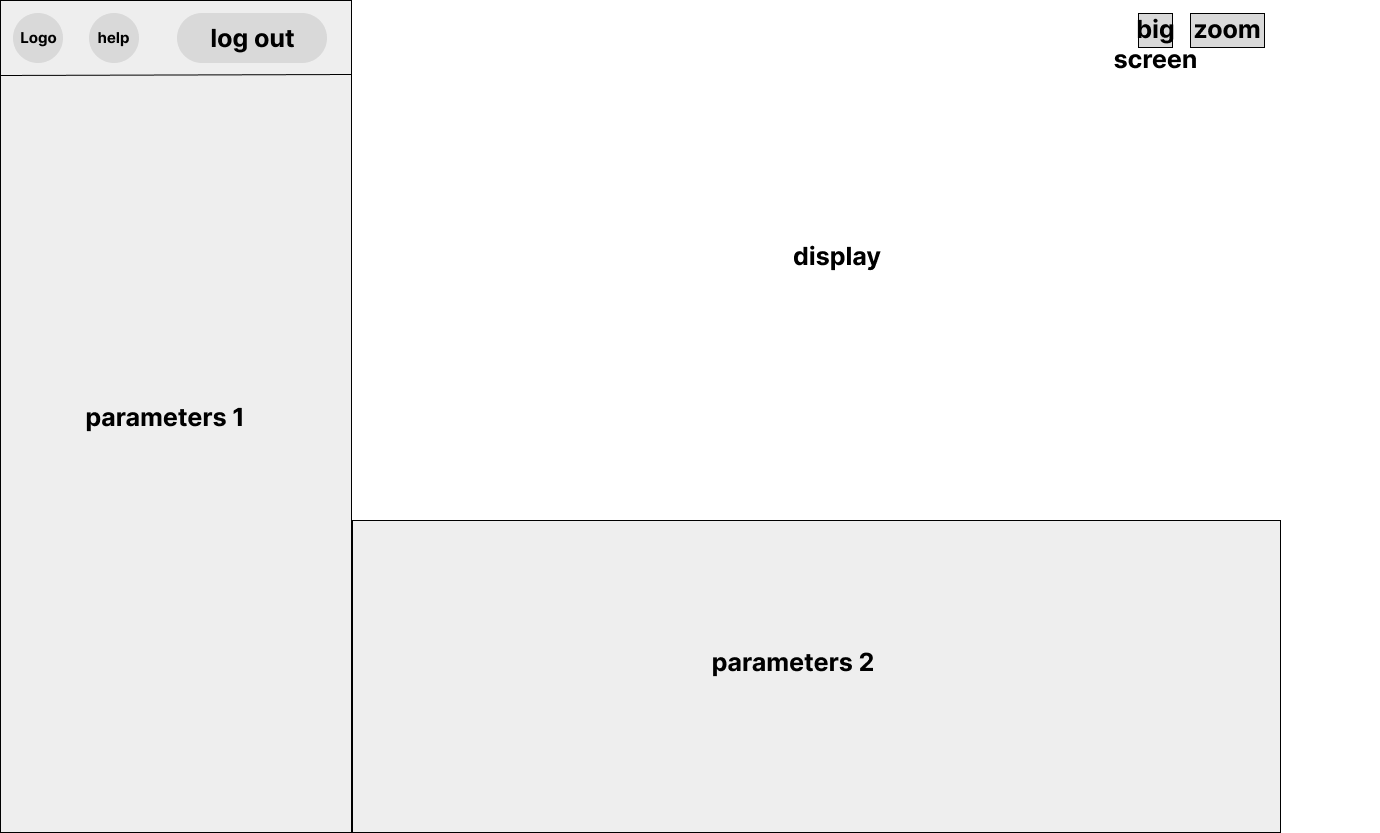
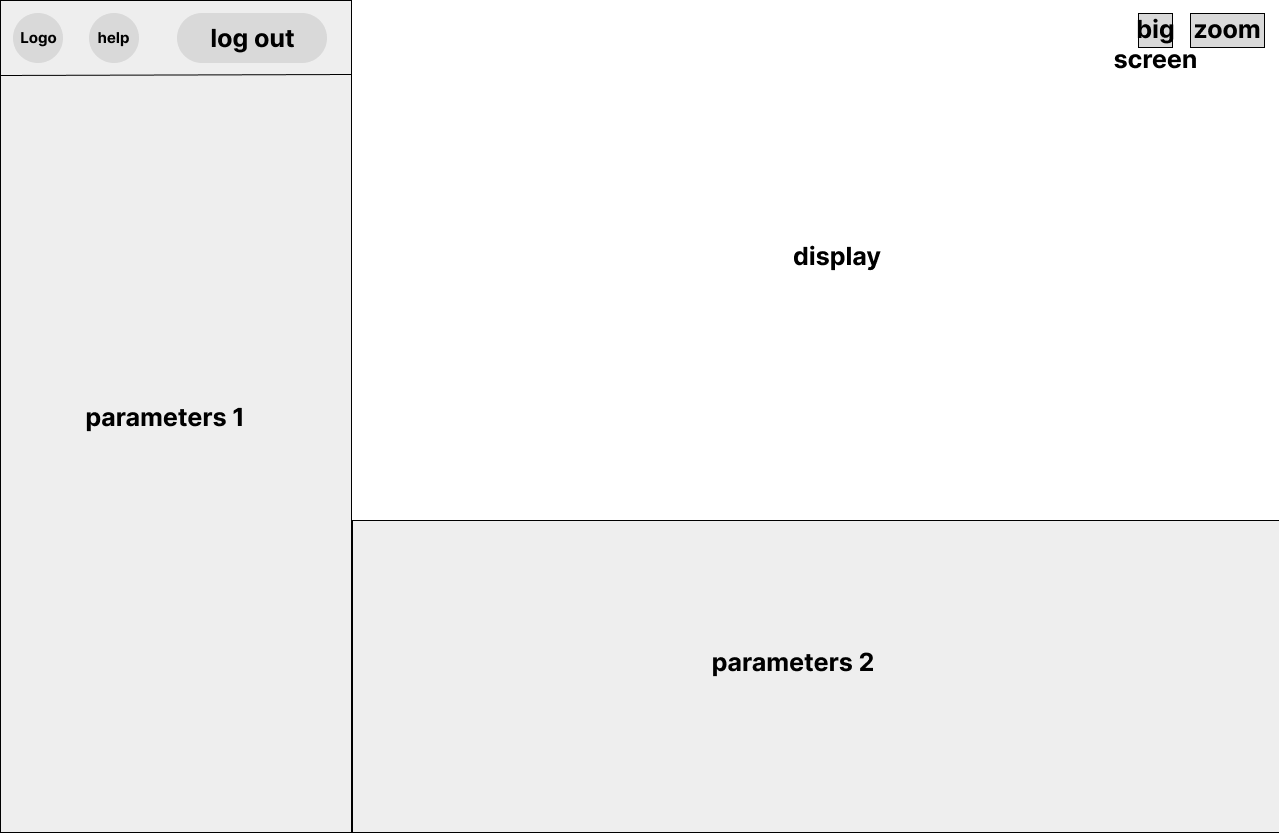
Need a backup
- Rephrased some part of the document
- Added some definition in the glossary
- Added few use cases analysis
- Added a border to the web interface model to distinguish it

diff --git a/functionalSpecifications/functionalSpecifications.md b/functionalSpecifications/functionalSpecifications.md
@@ -20,7 +20,7 @@
 | Date       | Version | Document Revision Description                                                                                                                                                                    |
 | ---------- | :-----: | ------------------------------------------------------------------------------------------------------------------------------------------------------------------------------------------------ |
 | 02/24/2025 |   1.0   | <li> Created the document and wrote sections Overview, A to E. </li> <li> Started the Glossary. </li>                                                                                            |
-| 02/25/2025 |   1.1   | After meeting with the client, some parts have been updated. <li>Filled in the client's section</li> <li>Partially wrote the Functional Requirements.</li> <li>Added Expected Deliverables.</li> |
+| 02/25/2025 |   1.1   | After meeting with the client, some parts have been updated. <li>Filled customers-relative sections</li> <li>Partially wrote Functional Requirements.</li> <li>Added Expected Deliverables.</li> |
 | 02/27/2025 |   1.2   | Made a lot of corrections and rewriting to have a clear document.                                                                                                                                |
 | 02/28/2025 |   1.3   | <li>Added the Test Cases Analysis</li> <li>Added Personas</li>                                                                                                                                   |
 
@@ -70,44 +70,44 @@
 
 # I. Overview
 
-Our client, Florant MANNI has asked us to develop a web interface for an FPGA Simulator[^1]. This web interface will be used to teach people how the signals propagate inside an FPGA[^2]. For simplicity, we will use the schematic of an FPGA board and animate it to show the movement of data and clock within the board.
+Our client, Florant MANNI has solicited us to develop a web interface for an FPGA Simulator[^1]. This web interface will be used to teach people how the signals spread inside an FPGA[^2]. For simplicity, we will represente the board with differents views (define in the document) to understand the FPGA system through animations. Those animations mainly symbolize signals transfers. 
 
 ## A. Purpose of the document
 
-The purpose of this Functional Specification is to outline the requirements and design considerations for developing a web interface for an FPGA Simulator[^1]. This interface aims to provide an educational tool that visually demonstrates how signals propagate within an FPGA, enhancing users' understanding of FPGA behavior.
+The purpose of this document is to outline the requirements and design considerations for developing a web interface for an FPGA Simulator[^1]. This interface aims to provide an educational tool that visually demonstrates how signals spread within an FPGA system, enhancing users' understanding of FPGA behavior.
 
-The document will detail the functionalities needed to merge a 2D floorplan representation of an FPGA with the dynamic propagation of signals over time. This includes integrating the layout resulting from synthesis and place-and-route (P&R) processes with timing simulation data. The goal is to create an interactive and intuitive platform that allows users to observe and analyze signal propagation using a testbench[^3] and timing netlist[^4], both written in Verilog.
+The document will detail the functionalities needed to merge a 2D floorplan representation of an FPGA with the dynamic propagation of signals over time. This includes integrating the layout resulting from synthesis[^3] and place-and-route (P&R)[^4] processes with timing simulation data. The goal is to create an interactive and intuitive platform that allows users to observe and analyze signal propagation using a testbench[^5] and timing netlist[^6], both written in Verilog[^7].
 
 By defining the scope, features, and user interactions, this specification will serve as a comprehensive guide for the development team to ensure the final product meets the educational objectives and technical requirements.
 
 ## B. Project Scope 
 
-The project scope for developing the web interface[^5] for the FPGA Simulator includes the following key components and functionalities:
+The project scope for developing the web interface[^8] for the FPGA Simulator includes the following key components and functionalities:
 
 1. 2D floorplan Visualization:
 
-   * Develop a graphical representation of the **FPGA layout**, displaying the arrangement of basic elements (BELs) and their interconnections.
+   * Develop a graphical representation of the **FPGA layout**, displaying the arrangement of basic elements (BELs)[^9] and their interconnections.
    * Ensure the layout accurately **reflects** the post-synthesis and place-and-route (P&R) design.
 
 <br>
 
 2. Signal Propagation Simulation:
    
-   * Integrate a timing simulator to **visualize** the propagation of clock signals within the FPGA with an animation.
+   * Integrate a timing simulator to **visualize** the propagation of clock signals within the FPGA through an animation.
    * Use a testbench and timing netlist, both written in Verilog, to drive the simulation and **demonstrate signal** behavior over time.
 
 <br>
 
 3. Double Interface:
 
-   * A web interface used by students to interact with the webpage to **explore** and **understand** the system.
-   * A backend interface used by teachers to provide scripts to the program to train students with the web interface.
+   * A web interface used by students to interact with the web app[^10] to **explore** and **understand** the system.
+   * A backend interface[^11] used by teachers to provide scripts to the program to train students with the web interface.
 
 <br>  
 
 4. Interactive User Interface:
 
-   * Create an **intuitive** web interface that allows users to interact with the FPGA layout and observe signal propagation.
+   * Create an **intuitive** web interface that allows users to interact with the with the view and observe signal propagation. //
    * Include controls for **starting**, **pausing**, and **resetting** the simulation, as well as options to inspect signal states at specific points in time.
 
 <br>
@@ -122,7 +122,7 @@ The project scope for developing the web interface[^5] for the FPGA Simulator in
 6. Technical Requirements:
 
     * Ensure the web interface is **compatible** with modern **web browsers** and responsive to different screen sizes.
-    * Optimize performance to handle complex FPGA designs and real-time signal propagation simulations.
+    * Optimize performance to handle complex FPGA designs.
     * **If share on the web**, implement security measures to protect user data and ensure the integrity of the simulation environment.
 
 <br>
@@ -130,7 +130,6 @@ The project scope for developing the web interface[^5] for the FPGA Simulator in
 7. Testing and Validation:
 
    * Conduct thorough testing to validate the accuracy of the signal propagation simulation and the usability of the interface.
-   * Gather feedback from users to iteratively improve the educational value and user experience of the tool.
 
 <br>
 
@@ -170,8 +169,8 @@ By focusing on these components, the project aims to deliver a comprehensive and
 
 | Stakeholder      | Might have/find an interest in...                                                 |
 | ---------------- | --------------------------------------------------------------------------------- |
-| Florant MANNI    | Needs a tool to help explain Verilog/VHDL system to young FPGA users.             |
-| ALGOSUP Students | Learning the association between web languages (HTML/CSS/JavaScript) and Verilog. |
+| Florant MANNI    | Needs a tool to help him to explain Verilog/VHDL system to young FPGA users.      |
+| ALGOSUP Students | Learning the association between web languages (HTML/CSS/JavaScript)[^12] and Verilog. |
 
 ### Project Roles
 
@@ -193,8 +192,8 @@ For this project, the customer has requested us to meet the following deliverabl
 * An explainaton of how to run the software must be present on the repository and/or in the website.
 * An explaination of how to add an application example must be present on the repository and/or in the website.
 * The website must include at least two application examples:
-  * One for the flipflop.
-  * One for the LUT4. 
+  * One for the flipflop[^13].
+  * One for the LUT4[^14]. 
 
 ## E. Project Plan 
 
@@ -258,13 +257,13 @@ To provide a comprehensive amount of information, the student needs access to th
 
 In this three views, the user has the following features :
 
-| 2D View & Navigation                                                                                                                              | Time Control                                                                                                                                                                                                                                             | Example used & Visualization                                                                                                                                                                   |
-| ------------------------------------------------------------------------------------------------------------------------------------------------- | -------------------------------------------------------------------------------------------------------------------------------------------------------------------------------------------------------------------------------------------------------- | ---------------------------------------------------------------------------------------------------------------------------------------------------------------------------------------------- |
-| <li>Navigate trough the screen with delimitation. </li> <li>Zoom on the screen to see more details or zoom out to view the global schematic.</li> | <li>Pause and resume button to stop or continue the animation.</li> <li>Controller/button to select the speed of the animation with the following choices: <br> <div style='text-align: center;'> x0.25 / x0.5 / x0.75 / x1 / x1.5 / x2 / x4 </div></li> | <li>Choose the exercise between the default example and the example from the file provided by the teacher </li> <li>Select which view to display information from among the three views. </li> |
+| 2D View & Navigation                                                                                                                              | Time Control                                                                                                                                                                                                                                                 | Example used & Visualization                                                                                                                                                                   |
+| ------------------------------------------------------------------------------------------------------------------------------------------------- | ------------------------------------------------------------------------------------------------------------------------------------------------------------------------------------------------------------------------------------------------------------ | ---------------------------------------------------------------------------------------------------------------------------------------------------------------------------------------------- |
+| <li>Navigate trough the screen with delimitation. </li> <li>Zoom on the screen to see more details or zoom out to view the global schematic.</li> | <li>Pause and resume button to stop or continue the animation.</li> <li>Controller/button to select the speed of the animation with the following choices: <br> <div style='text-align: center;'> 0.25 / 0.5 / 0.75 / 1 / 1.25 / 1.5 / 1.75 / 2. </div></li> | <li>Choose the exercise between the default example and the example from the file provided by the teacher </li> <li>Select which view to display information from among the three views. </li> |
 
 To organize the screen, we'll follow the model below. 
 
-![webAppDisplay](pictures/webAppDisplay.png)
+<img src='pictures/webAppDisplay.png' style='border: 1px solid black'>
 
 For the next three views, they will displayed on the display part.
 
@@ -351,7 +350,7 @@ When we start the Web app, firstly the program check if you are connected. If ye
 
 <h4>Log out</h4>
 
-Above the sidebar located in parameter 1 of the model, we have a `log out` button. If we press it, we should be disconnected and a login page should be displayed.
+Above the sidebar located in parameter 1 of the model, we have a `log out button`. If we press it, we should be disconnected and a login page should be displayed.
 
 ![log out](pictures/logOut.png)
 
@@ -369,18 +368,42 @@ The sidebar should have a button `Switch View`. With it, the user should select 
 
 <h4>Animation</h4>
 
-The project's goal is to have an animation to illustrate program action. So, with a play button, we should be allowed to pause and resume animation.
+The project's goal is to have an animation to illustrate program action. So, with a `play button`, we should be allowed to pause and resume animation.
 
 ![animation](pictures/Animation.png)
+
+<h4>Animation Speed</h4>
+
+Near to the play button, we should have a `drop-down list`. With it, the animation speed up or slow down. We should be allowed to select the speed between this speed values : 0.25, 0.5, 0.75, 1, 1.25, 1.5, 1.75, 2. The **default value** is x1.
+
+![Speed Animation](pictures/speedAnimation.png)
 
 # Glossary
 
 [^1]: An FPGA Simulator is a tool that helps designers test digital circuits before they are built. It uses special languages like Verilog or VHDL to simulate how signals move through an FPGA, ensuring everything works correctly.
 
-[^2]: An FPGA (Field-Programmable Gate Array) is a customizable chip that can be programmed to do different tasks. Unlike regular chips that do one thing, an FPGA can change its function, making it versatile for various jobs.
+[^2]: An FPGA (Field-Programmable Gate Array)  is an integrated circuit with basic elements and preconfigured electrical signal routes between them.
 
-[^3]: A testbench is a crucial tool in the design and verification process, helping to ensure that digital circuits and systems function correctly before they are manufactured.
+[^3]: Translation of the application into an electrical equivalent. It creates a netlist (which can be exported as a netlist). 
 
-[^4]: A netlist is like a recipe for building an electronic circuit. It tells you what components you need and how to put them together (connections) to create a functioning circuit.
+[^4]: Place and Route is the packing of the netlist component in the FPGA available BEL (Place). Then a route for signals between each BEL is selected (Route). A timing netlist is created and can be exported in verilog.
 
-[^5]: A web interface is a user-friendly website or online tool that lets you interact with a system or application through your web browser. It's like a control panel on the internet where you can click buttons, enter information, and see results without needing special software.
+[^5]: A testbench is a crucial tool in the design and verification process, helping to ensure that digital circuits and systems function correctly before they are manufactured.
+
+[^6]: A netlist is like a recipe for building an electronic circuit. It tells you what components you need and how to put them together (connections) to create a functioning circuit.
+
+[^7]: Verilog is a language used to program a system using the FPGA layout. It use to writting instruction to the system.
+
+[^8]: A web interface is a user-friendly website or online tool that lets you interact with a system or application through your web browser. It's like a control panel on the internet where you can click buttons, enter information, and see results without needing special software.
+
+[^9]: These are the hardware electrical ressources available inside the FPGA like fliflop, Look-Up-Table (LUT), Block RAM....
+
+[^10]: A web app is like a website that you can interact with, it like an application you can use on your phone, hence instead of use an application store to download it, you use it through a web browser like Chrome or Safari.
+
+[^11]: A backend interface is a part of a software application working behing the display. In this case, that indicate a part of the software where the teacher could add an example with a Verilog file.
+
+[^12]: HTML, CSS and JavaScript are pagramations languages usually used for the web. It is what we use for this project.  
+
+[^13]: 
+
+[^14]: 
